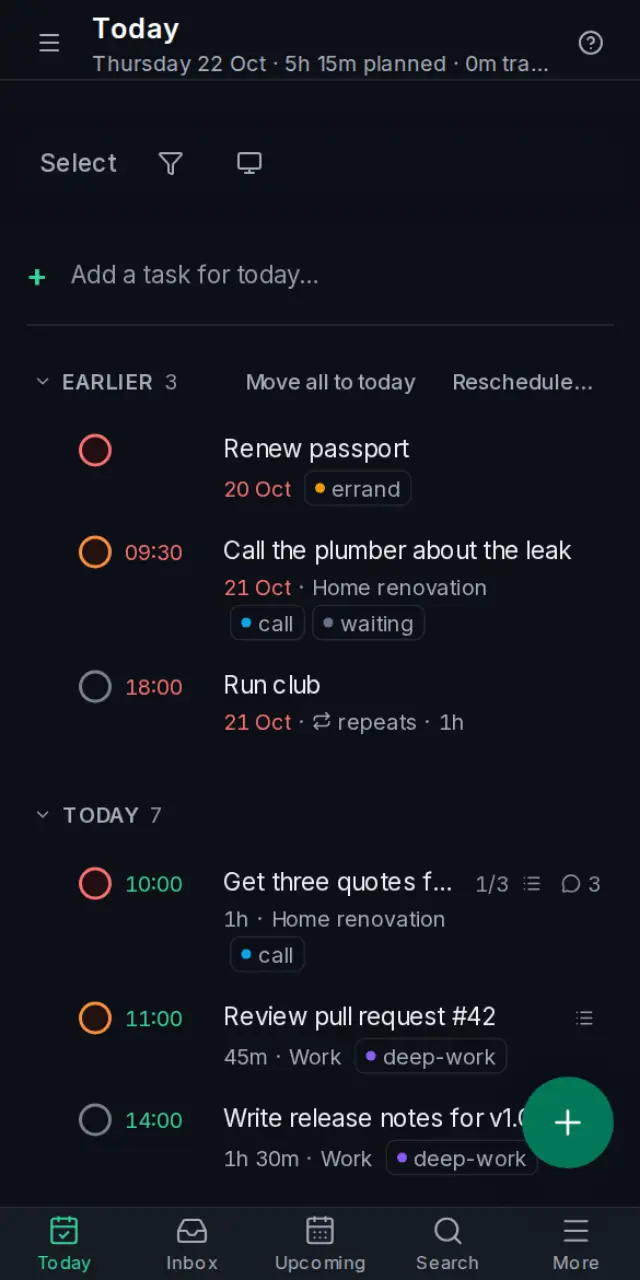
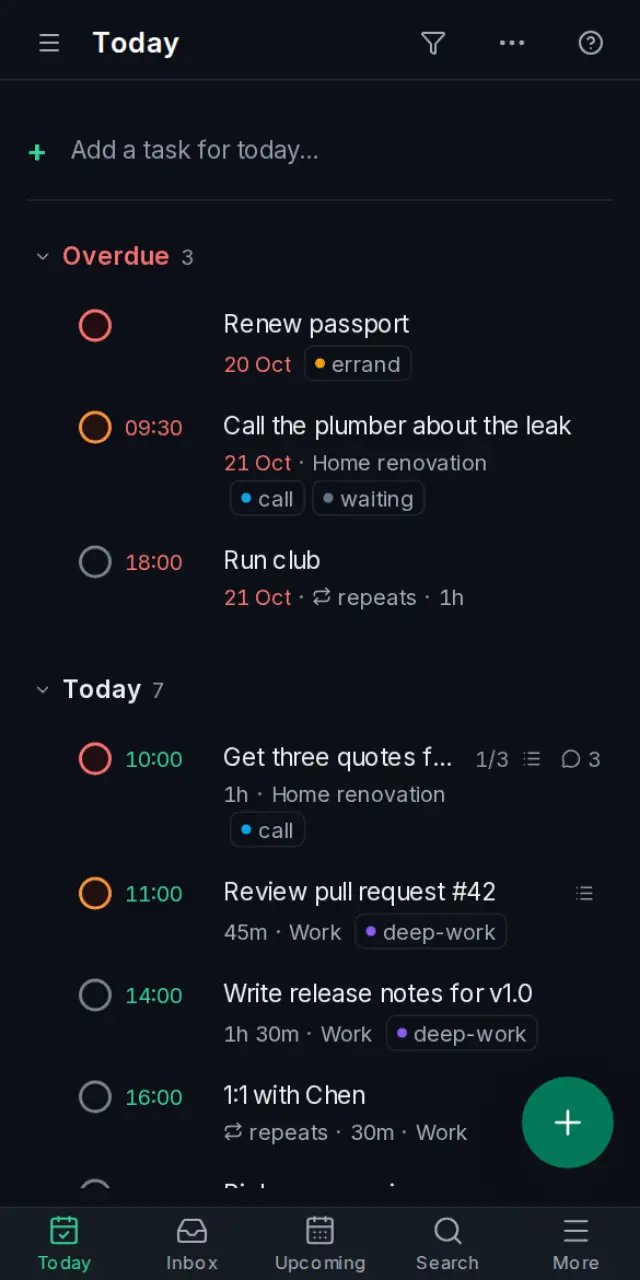
phone-v2: translations, docs and phone screenshots, German and French layout legs, the add-button check, changelog and size
Claude-Session: https://claude.ai/code/session_01Bkw4TZLFDGeMdZR3vWZF13

diff --git a/CHANGELOG.md b/CHANGELOG.md
@@ -53,6 +53,8 @@ All notable changes to OpenTodo are documented here. The format follows [Keep a 
 ### Changed
 
 - **Overdue is now Earlier, and pages have a rhythm.** Today's first group is **Earlier**: a quiet label with only each task's date in red, and two actions always in its header, **Move all to today** and **Reschedule…**, which change the whole group in one batch with Undo (also in the palette as **Move earlier tasks to today** and **Reschedule earlier tasks…**). With more than five tasks it starts folded on a device that never opened it. The word "overdue" leaves the interface, the Daily check, the display, the weekly review, Close the day and the weekly digest ("Still open from earlier"); the filter keyword `overdue` is unchanged. Dates climb a ladder: later dates muted, tomorrow in the text colour, today in the accent, an earlier day in red. Page titles are larger, with the date and totals (or a project's members, a label's count) on a soft line under them. Group headers are small labels, uppercase for the groups the app makes and in your own case for sections and projects. Pages without a layout switch are centred in wide windows and slide to the new centre when the task panel docks; a project keeps one frame for list, board and timeline, and its list now uses the width.
+- **The app on a phone.** Two rows sit above your tasks: the top bar and quick add. A list's buttons (Process, Ask, the duration filter) moved into the top bar, and **Select tasks**, Display mode and a project's layout and Share into its **⋯** menu. The Inbox's "planned without a project" count is the bar's subtitle. Swipe a task right to complete it, left to schedule it (Today, Tomorrow, Next week, a day you pick, or Someday); the same two actions start the task's menu, and a one-time hint shows the gesture. Press and hold a task to select it; **Done** in the selection bar hides the checkboxes. A task opens as a sheet over its list, with a handle you drag down to close it. Menus and pickers close the same way. While you scroll down, the bottom bar shrinks to icons and the **+** slides away. The list keeps room for the **+** under its last task, and the Undo toast sits above both. **More** opens a wider drawer with what the bottom bar doesn't have, in larger rows. ([Work from the list](docs/work-from-the-list.md), [Bulk actions](docs/bulk-actions.md))
+
 - **A new mark, and a quieter sidebar.** OpenTodo has its own mark, an open loop that closes into a tick, beside the name at the top of the sidebar and on the sign-in, setup, reset, invitation and email screens. The app icon, the favicon, the Apple touch icon and a new maskable icon for Android home screens use it too; installed apps pick it up on their next load, with no reinstall. The browser extension's icons follow in its version 0.6.1. In the sidebar, rows rest in a quieter tone and brighten under the pointer, the current place is set in a stronger tone with its icon in your accent, and a group's **All**, **Find** and **+** appear while the pointer or keyboard focus is on its heading (always on a touch screen). On a computer, **More** is a heading that opens its menu, with no icon; the review-due dot is now on **Review** (inside More, or among the primary destinations in Open Loops first) and the unread count on **Updates**, never on More. While you track time, the elapsed time, the task and **Stop** sit in a pill in the sidebar's bottom row instead of a line of their own. On a computer the sidebar column has a faint tint of your accent colour (none in high contrast).
 - **Settings, tidied.** Cards carry an icon before their title (also in Settings search). Every **Learn more** points like a link and opens Help. Card buttons lose their trailing "…". **How you work** has a **Start guide** row that says whether you finished it and opens the guide over the Inbox. **Recent activity** groups by day, folds repeated sign-ins from one browser into "Signed in ×4", shows ten lines and **Show all**, and names failed or unusual events in the warning tone. The **audit log** is a compact list with filter chips, Export in the header and its retention and address settings in a separate **Audit settings** card. **Date and time** shows one Sample box. The issue connection editor is three steps with **More options**. **API tokens** are rows with scope badges and a create dialog that describes each scope. The **Assistant** card has a status line and "For everyone on this server" and "For you" groups. **AI assistants** is three numbered steps with ready-made configuration for Claude Desktop, Claude Code and other clients.
 - **One quiet task row.** When a list has timed tasks, their times stand in a column before the titles (a deadline's countdown where there is no time), so a day reads like a schedule; the column's width follows your 12- or 24-hour format. The line under a title is one run of muted text (date, repeat, deadline, start, estimate or `35m / 1h`, blocked, streak, field values) with dots between items, labels are small chips with their colour (two, then "+n") and the only pills of a row, and the project moves to the end of the row next to the counts. With a mouse on a wide screen, hovering a row or tabbing into it shows **Schedule**, **Priority** and **More**; touch screens keep the long-press menu. Board cards, Plan, the review screens and Close the day use the same language. ([Work from the list](docs/work-from-the-list.md#what-a-row-shows))

diff --git a/docs/interface-guide.md b/docs/interface-guide.md
@@ -63,6 +63,17 @@ The header is sticky inside the content column. A string title is truncated; pas
 - **Content**: the page template. The shell gives it the scroller; a view never adds one of its own.
 - **Panel**: owned by the shell (`PanelHost`). Views open a task with `openTaskPanel(id)` (or `setPanelTaskId`) from `app/panel.ts`; the address carries `?task=<id>`. Other occupants (project activity, the planning list) use `openPanel(key, render)`.
 
+## On a phone
+
+Below 768 px (OpenSpec change `phone-v2`):
+
+- **Bar**: the shell's `PhoneBar` takes the page title, a subtitle (the board's column, the Inbox's planned count) and two slots. A list passes its actions with `PageHeader barActions`: Process the Inbox or Ask first, then the duration filter (`usePhoneListActions` in `task-list/ListChrome.tsx`); Select tasks, Display mode, a project's Layout, Share and Add a note are overflow items (`PhoneMenuItems`, `phoneGroups`). Nothing sits between the bar and the quick add.
+- **Bottom**: the tab bar (Today, Inbox, Upcoming, Search, More) and the add button. While the list scrolls down the bar drops to 40 px of icons and the button slides out; any scroll up, the end of the list or 600 ms of quiet bring both back (`usePhoneChrome`); reduced motion keeps them still. The content column reserves the button's footprint (`--add-room`) and the toast sits above both (`--toast-lift`).
+- **Rows**: swipe right completes (reopens in Completed), swipe left opens the Schedule sheet (`rowSwipe.ts`, `task-list/RowSwipe.tsx`): a 12 px direction lock, the action named at 64 px, fired at 96 px or on a flick, a return under 32 px. No swipe on a fine pointer, a read-only row, a card, the inline editor or while anything is ticked. Complete and Schedule… start the touch row menu. A long press ticks the row and shows every checkbox (`onHold` in `lib/dnd.ts`); moving on drags the selection.
+- **Sheets**: the task panel is a bottom sheet (`useTaskSheet`): a handle, 90 dvh at most, the scrim behind, Close in place of Back; a drag down on the handle or header closes it, on the body only from the top. Menus and pickers below 640 px are sheets with the same cap and drag.
+- **Drawer**: More opens the sidebar as a 20 rem drawer (85 vw at most) of 48 px rows, without the destinations the tab bar holds.
+- **Budget**: two rows of chrome above the first task (the bar and the quick add); the bottom chrome never covers a row; every touch control is at least 48 px. The layout check also runs the phone screens at 360 px in German and French.
+
 ## The task panel
 
 Sticky header (checkbox, title wrapping to two lines, menu, close); notes as one placeholder line until focused, clamped to about eight lines at rest; four facet lines built by `facetsOf` in `web/src/lib/facets.ts` (Where, When, How always; Who when set) whose parts open `FacetEditor` popovers with Clear and Done, the When parts on one segment of the When popover; an Add menu grouped by facet; subtasks as a checklist; Comments, Activity, History and Time tabs with the composer resting as one line at the bottom. Parts use the row's words; no clear buttons between values. The words are **Do on**, **Start**, **Deadline**, **Evening**.

diff --git a/openspec/changes/phone-v2/design.md b/openspec/changes/phone-v2/design.md
@@ -56,7 +56,7 @@ See proposal.md for the motivation. Relevant current state, from the code and th
 
 **D10. Interface budget.** Chrome above the first item on a phone: the bar and the quick add, two rows (down from three). The tab bar and the add button are below the content and do not count, and the button never overlaps a row. Visible task properties: unchanged. Primary sidebar destinations: unchanged (the drawer shows fewer, never more). Scroll regions: the sheet is the panel's scroller, so a phone with the sheet open has the content and the sheet, two. Shortcuts: none added. Every new control is at least 48 px on touch.
 
-**D11. Data and size.** No data model impact: every action is the existing op (complete, reopen, set `due`, `start`). No dependency. About 1.5 KB gzipped: the swipe handler (direction lock, thresholds, the tinted edge), the sheet handle, the scroll-direction hook. The sheet and the drawer reuse `Dialog` and the sidebar primitives.
+**D11. Data and size.** No data model impact: every action is the existing op (complete, reopen, set `due`, `start`). No dependency. About 1.5 KB gzipped: the swipe handler (direction lock, thresholds, the tinted edge), the sheet handle, the scroll-direction hook. The sheet and the drawer reuse `Dialog` and the sidebar primitives. Measured on the applied change (`vite build` of main at `b376502f` against this branch, the entry chunks gzipped at level 9): JavaScript +2,239 bytes, CSS +246 bytes, about 2.5 KB in all, a little over the estimate, mostly the phone list actions in the page bar, the long-press selection and the Schedule sheet. Server binary unchanged.
 
 **D12. Spec placement.** `lean-chrome` modifies "Nothing between the header and the list" and `calm-rows` modifies "One row anatomy" (both archive within the hour), so this change ADDS "Phone header actions" and "Swipe actions on rows" to `task-list-presentation` rather than editing those requirements; `quiet-sidebar` and `sidebar-favourites` modify "Sidebar structure", so the drawer is an ADDED "Phone drawer" requirement in `app-shell` and "Sidebar structure" is untouched (its "More open on a phone" scenario still holds: the drawer's scroller holds More and the groups). "Phone navigation", "Panel width and expansion" (app-shell), "Task detail panel", "Phone layout rules", "Overlays fit every screen" (web-app) and "Select with a pointer or on touch" (bulk-actions) are modified by no open change and are MODIFIED here with their full text. `ux-audit-three-widths` adds an audit tour; its measurements (M-rules for overflow and targets) are the ones this change makes pass on a phone.
 

diff --git a/docs/keyboard.md b/docs/keyboard.md
@@ -114,7 +114,9 @@ On a Mac, use <kbd>⌘</kbd> where this page says <kbd>Ctrl</kbd>, and <kbd>Opti
 | <kbd>Alt+↓</kbd> | Move it one place down |
 | <kbd>Alt+Shift+↑</kbd> | Move it to the top of its list |
 | <kbd>Alt+Shift+↓</kbd> | Move it to the bottom of its list |
-| <kbd>Drag</kbd> (touch: press and hold) | Reorder tasks in project lists, boards and the Inbox, and projects in the sidebar; drop on the middle of a row to nest it; Esc cancels |
+| <kbd>Drag</kbd> (touch: press and hold, then move) | Reorder tasks in project lists, boards and the Inbox, and projects in the sidebar; drop on the middle of a row to nest it; Esc cancels |
+| <kbd>Swipe</kbd> then <kbd>a</kbd> then <kbd>task</kbd> | Touch: right completes, left schedules; the same two actions start the task's menu |
+| <kbd>Press</kbd> then <kbd>and</kbd> then <kbd>hold</kbd> then <kbd>a</kbd> then <kbd>task</kbd> | Touch: tick it and show every checkbox; Select tasks in the page menu does the same, Done hides them |
 | Today, Upcoming, Assigned, Completed, labels, filters | Sorted by date (or their own rule): no drag or Alt moves there |
 | <kbd>←</kbd> | Collapse the subtasks of the selected task (or go to its parent), or the sub-projects of the focused sidebar project |
 | <kbd>→</kbd> | Expand the subtasks of the selected task, or the sub-projects of the focused sidebar project |

diff --git a/docs/getting-started.md b/docs/getting-started.md
@@ -40,7 +40,7 @@ Once you're signed in, the app is stored on your device. You can keep using it w
 
 ## Find your way around
 
-The sidebar on the left lists your views and projects; its groups fold with a click on their name. The magnifier by the OpenTodo name searches everything (<kbd>Ctrl+K</kbd>); the one by **Projects** finds a project, label or filter. On a phone, a bar at the bottom goes to **Today**, **Inbox** and **Upcoming**, opens **Search**, and **More** opens the sidebar as a drawer; the round **+** adds a task from any page with the page's defaults (today's date in Today, the project in a project).
+The sidebar on the left lists your views and projects; its groups fold with a click on their name. The magnifier by the OpenTodo name searches everything (<kbd>Ctrl+K</kbd>); the one by **Projects** finds a project, label or filter. On a phone, a bar at the bottom goes to **Today**, **Inbox** and **Upcoming**, opens **Search**, and **More** opens a drawer with everything else; the round **+** adds a task from any page with the page's defaults (today's date in Today, the project in a project).
 
 - **Inbox** collects tasks that don't belong to a project yet.
 - **Today** shows what's due today, earlier days first.

diff --git a/docs/work-from-the-list.md b/docs/work-from-the-list.md
@@ -28,11 +28,11 @@ New tasks without a project land in the **Inbox**. Tasks added inside a project 
 
 ## Complete, reopen and delete
 
-Click the circle next to a task, or press <kbd>c</kbd>. Completed tasks move to **Completed** in the sidebar, where you can reopen them.
+Click a task's circle or press <kbd>c</kbd>. On a phone, swipe right to complete, left to schedule; hold to select. Completed tasks move to **Completed**, where you can reopen them.
 
 Deleting a task (the **Delete** button in the panel, or <kbd>Delete</kbd> in the list) moves it to the Trash, along with its subtasks. You can restore it from there. See [Trash and history](trash-and-history.md).
 
-Completing, deleting, moving, rescheduling or parking a task shows a toast with **Undo** for a few seconds (<kbd>Ctrl</kbd>+<kbd>Z</kbd> outside a text field also undoes). Undo works offline too.
+Completing, deleting, moving, rescheduling or parking a task shows a toast with **Undo** for a few seconds (<kbd>Ctrl</kbd>+<kbd>Z</kbd> outside a text field also undoes).
 
 ## What a row shows
 

diff --git a/docs/install-phone.md b/docs/install-phone.md
@@ -13,6 +13,8 @@ order: 21
 
 Sign in once in the browser first, at your server's `https://` address; then add the app to your home screen. The general picture, and the steps for computers, are in [Installing the app](install-app.md).
 
+Once installed, the round **+** at the bottom right adds a task, and **More** opens a drawer with your projects, labels and filters.
+
 ## iPhone and iPad
 
 1. Open your OpenTodo address in **Safari**.
